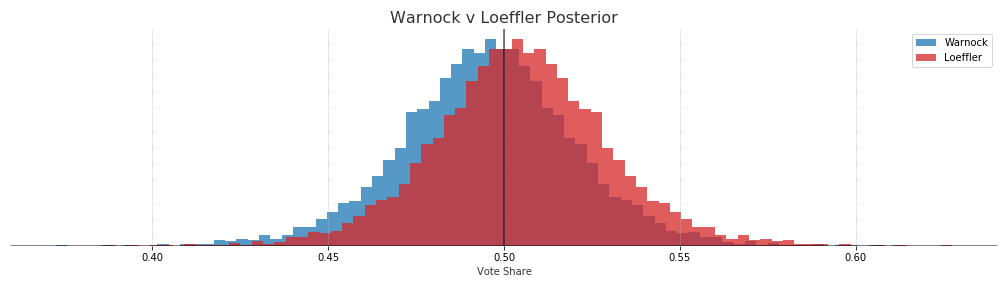
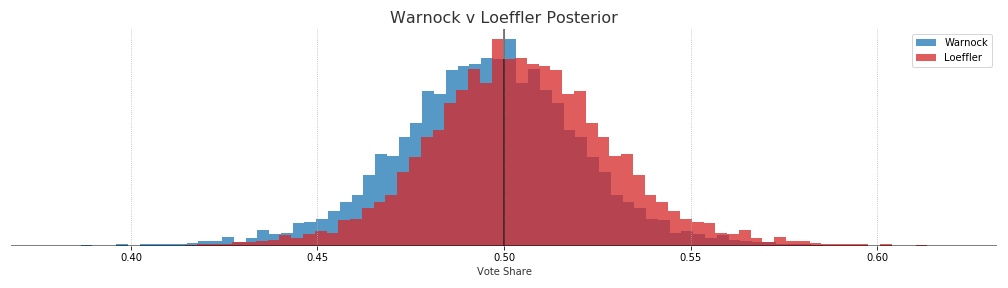
updated with surveyusa dec-20 poll

diff --git a/_posts/2020-12-18-election.md b/_posts/2020-12-18-election.md
@@ -4,14 +4,14 @@ title: Hierarchical Partial Pooling for Georgia Runoff Elections
 published: True
 ---
 
-Updated: Dec 20, 2020
+Updated: Dec 22, 2020
 
-# Warnock: 42.1% - Loeffler: 57.9% 
+# Warnock: 43.3% - Loeffler: 56.7% 
 
 {: .center}
 ![WL Posterior](../images/ga_wl_posteriors.png)
 
-# Ossoff: 39.4% - Perdue: 60.6% 
+# Ossoff: 42.1% - Perdue: 57.9% 
 
 {: .center}
 ![WL Posterior](../images/ga_op_posteriors.png)
@@ -22,10 +22,10 @@ Updated: Dec 20, 2020
 
 | Candidate | Mean | 80% Interval |
 | ----------|------|--------------|
-| Ossoff    | 49.3 | 45.9 - 52.8  |
-| Perdue    | 50.7 | 47.2 - 54.1  |
-| Warnock   | 49.5 | 46.4 - 52.6  |
-| Loeffler  | 50.5 | 47.4 - 53.6  |
+| Ossoff    | 49.4 | 46.0 - 52.8  |
+| Perdue    | 50.6 | 47.2 - 54.0  |
+| Warnock   | 49.5 | 46.6 - 52.7  |
+| Loeffler  | 50.5 | 47.3 - 53.4  |
 
 ## Methods
 
